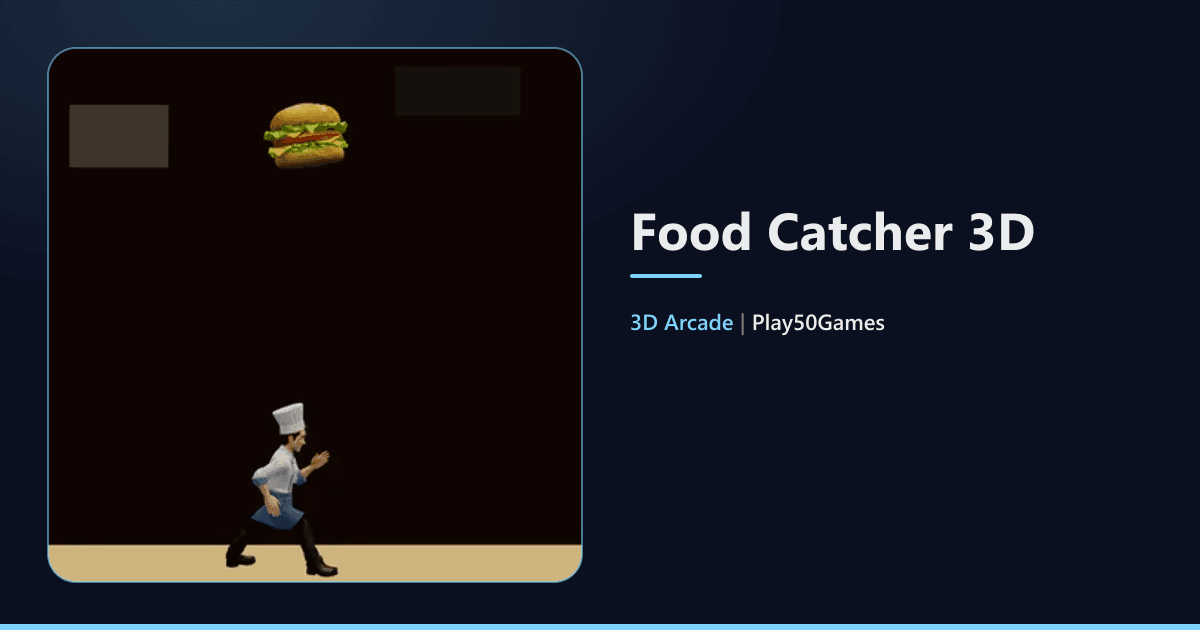
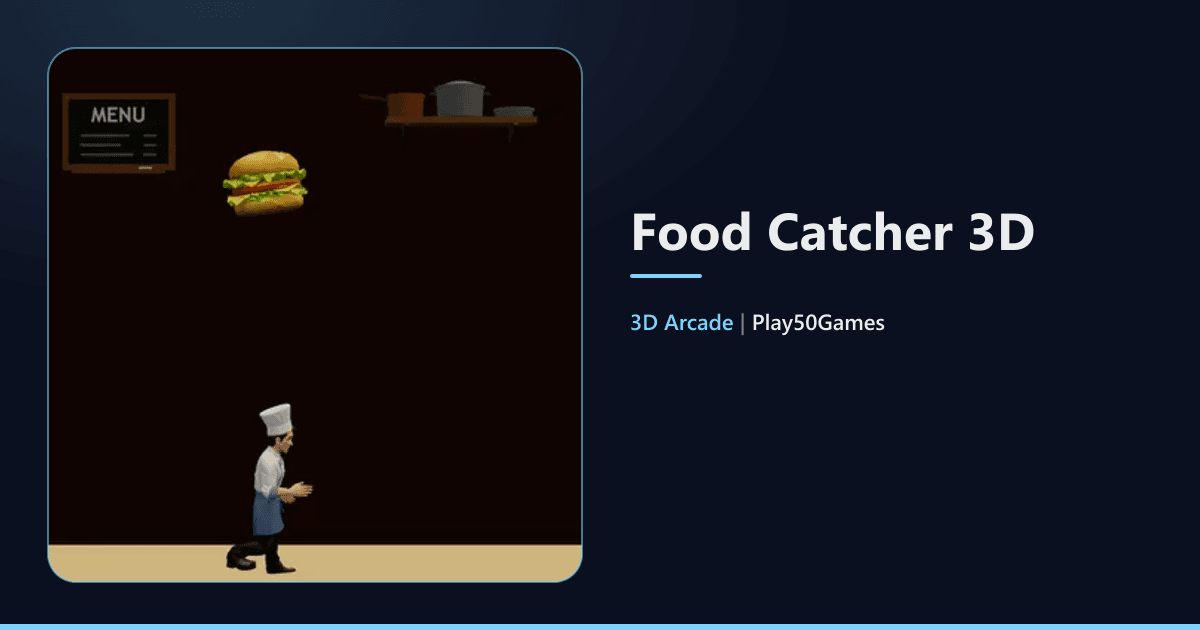
feat(food-catcher): menu board and pot shelf on the kitchen wall
The two plain grey boxes on the back wall read as holes. A chalk menu
board (slate drawn with core useCanvasTexture: MENU and three faint dish
lines, wooden frame and chalk ledge) and a wooden shelf on iron brackets
with a copper saucepan, a steel stock pot and a pan replace them. Muted
and darker than the food, no red, so the food and the junk ring read
first. Wood and metal are each one merged vertex-coloured geometry:
3 draw calls for the decor, 1 more than the boxes (scene 8 -> 9 at rest).
Thumbnail and OG card recaptured with the new wall.

Changed region(s): [[0.185, 0.1206, 0.4625, 0.3619], [0.185, 0.6333, 0.2775, 0.9349], [0.0308, 0.1508, 0.1542, 0.3016]]

diff --git a/play50games-frontend/src/arcade3d/games/food-catcher/Primitives.tsx b/play50games-frontend/src/arcade3d/games/food-catcher/Primitives.tsx
@@ -2,7 +2,20 @@
 
 // Kitchen, chef and food stand-ins. Drawn until the GLBs are in core/modelManifest.ts.
 // The chef stands on y = 0 and is about 1.6 tall. Food is centred on the group origin, ~0.9 across.
-import { memo } from "react";
+import { memo, useEffect, useMemo } from "react";
+import {
+   BoxGeometry,
+   Color,
+   CylinderGeometry,
+   Euler,
+   Float32BufferAttribute,
+   Matrix4,
+   Quaternion,
+   Vector3,
+   type BufferGeometry,
+} from "three";
+import { mergeGeometries } from "three/examples/jsm/utils/BufferGeometryUtils.js";
+import { useCanvasTexture, type CanvasDraw } from "@/arcade3d/core/render";
 
 export const COLORS = {
    hat: "#f8fafc",
@@ -25,14 +38,210 @@ export const COLORS = {
    counterEdge: "#a16207",
    cabinet: "#6b4a2b",
    wall: "#3b2418",
-   tile: "#78716c",
    floor: "#1c1410",
 } as const;
 
 /**
+ * The wall decor's colours. Muted and darker than anything that falls (the wall is lit dimly, so
+ * these render at about half their value): no red, no bright yellow or white, no round fruit-like
+ * blobs, so the food and the red junk tell always read first.
+ */
+const DECOR = {
+   slate: "#27302b",
+   chalk: "rgba(222, 216, 206, 0.92)",
+   chalkFaint: "rgba(222, 216, 206, 0.42)",
+   frame: "#7a5636",
+   plank: "#86613f",
+   stick: "#b9b2a6",
+   iron: "#57524d",
+   copper: "#a8693f",
+   copperDark: "#7c4a2c",
+   steel: "#8d9297",
+   steelDark: "#5c6166",
+   knob: "#36312d",
+} as const;
+
+/** The wall's front face (the wall box is centred on z = -0.85, 0.18 deep). */
+const WALL_FRONT = -0.76;
+/** The chalkboard's slate (the frame is 0.07 wider on every side), where the old grey box hung. */
+const BOARD = { x: -2.2, y: 4.65, w: 1.12, h: 0.72, border: 0.07 } as const;
+/** The pot shelf: the plank's top centre, its width and depth, where the old dark box hung. */
+const SHELF = { x: 1.6, top: 4.78, w: 1.64, depth: 0.36, thick: 0.07 } as const;
+const MENU_TEX = { w: 448, h: 288 } as const;
+
+/** The chalkboard: "MENU" and three faint dish lines with a price dash, on dark slate. */
+const drawMenuBoard: CanvasDraw = (ctx, w, h) => {
+   ctx.fillStyle = DECOR.slate;
+   ctx.fillRect(0, 0, w, h);
+   // old chalk wiped off: a few faint smears, fixed so every run draws the same board
+   ctx.fillStyle = "rgba(222, 216, 206, 0.05)";
+   for (const [x, y, rx, ry] of [[0.3, 0.62, 0.22, 0.1], [0.72, 0.4, 0.18, 0.08], [0.55, 0.85, 0.3, 0.07]]) {
+      ctx.beginPath();
+      ctx.ellipse(x * w, y * h, rx * w, ry * h, -0.12, 0, Math.PI * 2);
+      ctx.fill();
+   }
+   ctx.fillStyle = DECOR.chalk;
+   ctx.textAlign = "center";
+   ctx.textBaseline = "middle";
+   ctx.font = `700 ${Math.round(h * 0.32)}px "Trebuchet MS", "Segoe UI", Arial, sans-serif`;
+   ctx.fillText("MENU", w / 2, h * 0.26);
+   ctx.strokeStyle = DECOR.chalkFaint;
+   ctx.lineCap = "round";
+   ctx.lineWidth = h * 0.035;
+   for (const [y, end] of [[0.56, 0.6], [0.71, 0.52], [0.86, 0.64]]) {
+      ctx.beginPath();
+      ctx.moveTo(w * 0.13, h * y);
+      ctx.lineTo(w * end, h * y);
+      ctx.moveTo(w * 0.76, h * y);
+      ctx.lineTo(w * 0.87, h * y);
+      ctx.stroke();
+   }
+};
+
+type AddPiece = (geometry: BufferGeometry, color: string, x: number, y: number, z: number, rotX?: number, rotZ?: number) => void;
+
+/** Vertex-coloured pieces merged into one geometry, so they cost one draw call together. */
+function mergedPieces(build: (add: AddPiece) => void): BufferGeometry {
+   const pieces: BufferGeometry[] = [];
+   const matrix = new Matrix4();
+   const turn = new Quaternion();
+   const euler = new Euler();
+   const at = new Vector3();
+   const one = new Vector3(1, 1, 1);
+   const tint = new Color();
+   build((geometry, color, x, y, z, rotX = 0, rotZ = 0) => {
+      geometry.applyMatrix4(matrix.compose(at.set(x, y, z), turn.setFromEuler(euler.set(rotX, 0, rotZ)), one));
+      tint.set(color);
+      const colors = new Float32Array(geometry.getAttribute("position").count * 3);
+      for (let i = 0; i < colors.length; i += 3) {
+         colors[i] = tint.r;
+         colors[i + 1] = tint.g;
+         colors[i + 2] = tint.b;
+      }
+      geometry.setAttribute("color", new Float32BufferAttribute(colors, 3));
+      pieces.push(geometry);
+   });
+   const merged = mergeGeometries(pieces);
+   for (const piece of pieces) piece.dispose();
+   if (!merged) throw new Error("food-catcher kitchen decor: pieces did not merge");
+   return merged;
+}
+
+/** A pot on the shelf: a body, a rolled rim, and its handles or lid, standing on the plank. */
+function addPot(
+   add: AddPiece,
+   x: number,
+   radius: number,
+   height: number,
+   color: string,
+   trim: string,
+   kind: "saucepan" | "stockpot" | "pan"
+): void {
+   const z = WALL_FRONT + SHELF.depth / 2;
+   const base = SHELF.top;
+   add(new CylinderGeometry(radius, radius * 0.94, height, 22), color, x, base + height / 2, z);
+   add(new CylinderGeometry(radius * 1.07, radius * 1.07, 0.028, 22), color, x, base + height - 0.014, z);
+   if (kind === "stockpot") {
+      // a low lid with a dark knob, and an ear handle on each side
+      add(new CylinderGeometry(radius * 0.4, radius * 1.02, 0.06, 22), color, x, base + height + 0.03, z);
+      add(new CylinderGeometry(0.03, 0.04, 0.045, 10), DECOR.knob, x, base + height + 0.08, z);
+      add(new BoxGeometry(0.08, 0.035, 0.05), trim, x - radius - 0.035, base + height * 0.8, z);
+      add(new BoxGeometry(0.08, 0.035, 0.05), trim, x + radius + 0.035, base + height * 0.8, z);
+      return;
+   }
+   // one long handle under the rim, its far end tilted up, pointing away from the shelf's middle
+   const side = kind === "saucepan" ? -1 : 1;
+   const length = radius * 1.7;
+   add(
+      new BoxGeometry(length, 0.035, 0.045),
+      trim,
+      x + side * (radius + length / 2 - 0.02),
+      base + height - 0.025,
+      z,
+      0,
+      side * 0.18
+   );
+}
+
+/** The wooden parts: the chalkboard frame, its chalk ledge with a stick of chalk, the shelf plank. */
+function buildWood(): BufferGeometry {
+   return mergedPieces((add) => {
+      const frameW = BOARD.w + BOARD.border * 2;
+      const frameH = BOARD.h + BOARD.border * 2;
+      add(new BoxGeometry(frameW, frameH, 0.05), DECOR.frame, BOARD.x, BOARD.y, WALL_FRONT + 0.025);
+      const ledgeY = BOARD.y - frameH / 2 - 0.02;
+      add(new BoxGeometry(frameW * 0.82, 0.04, 0.1), DECOR.frame, BOARD.x, ledgeY, WALL_FRONT + 0.05);
+      add(new CylinderGeometry(0.018, 0.018, 0.14, 8), DECOR.stick, BOARD.x + 0.3, ledgeY + 0.038, WALL_FRONT + 0.06, 0, Math.PI / 2);
+      add(
+         new BoxGeometry(SHELF.w, SHELF.thick, SHELF.depth),
+         DECOR.plank,
+         SHELF.x,
+         SHELF.top - SHELF.thick / 2,
+         WALL_FRONT + SHELF.depth / 2
+      );
+   });
+}
+
+/** The metal parts: the shelf's two iron brackets, a copper saucepan, a steel stock pot, a pan. */
+function buildMetal(): BufferGeometry {
+   return mergedPieces((add) => {
+      const under = SHELF.top - SHELF.thick;
+      // each bracket: an upright on the wall and a brace out to the plank's front edge
+      const drop = 0.24;
+      const reach = SHELF.depth - 0.06;
+      const brace = Math.hypot(drop, reach);
+      for (const dx of [-0.6, 0.6]) {
+         add(new BoxGeometry(0.045, drop, 0.04), DECOR.iron, SHELF.x + dx, under - drop / 2, WALL_FRONT + 0.02);
+         add(
+            new BoxGeometry(0.045, brace, 0.035),
+            DECOR.iron,
+            SHELF.x + dx,
+            under - drop / 2,
+            WALL_FRONT + reach / 2,
+            Math.atan2(reach, drop)
+         );
+      }
+      addPot(add, SHELF.x - 0.6, 0.2, 0.25, DECOR.copper, DECOR.copperDark, "saucepan");
+      addPot(add, SHELF.x, 0.26, 0.34, DECOR.steel, DECOR.steelDark, "stockpot");
+      addPot(add, SHELF.x + 0.6, 0.21, 0.1, DECOR.steel, DECOR.knob, "pan");
+   });
+}
+
+/**
+ * The menu board and the pot shelf on the wall behind the falling food: three draw calls
+ * (the slate, the wood, the metal), built once per mount and freed with it.
+ */
+const WallDecor = memo(function WallDecor() {
+   const menu = useCanvasTexture(MENU_TEX.w, MENU_TEX.h, drawMenuBoard);
+   const parts = useMemo(() => ({ wood: buildWood(), metal: buildMetal() }), []);
+   useEffect(
+      () => () => {
+         parts.wood.dispose();
+         parts.metal.dispose();
+      },
+      [parts]
+   );
+   return (
+      <group name="wall-decor">
+         <mesh position={[BOARD.x, BOARD.y, WALL_FRONT + 0.056]} name="menu-board">
+            <planeGeometry args={[BOARD.w, BOARD.h]} />
+            <meshStandardMaterial map={menu} roughness={0.95} />
+         </mesh>
+         <mesh geometry={parts.wood} name="decor-wood">
+            <meshStandardMaterial vertexColors roughness={0.8} />
+         </mesh>
+         <mesh geometry={parts.metal} name="decor-metal">
+            <meshStandardMaterial vertexColors roughness={0.42} metalness={0.3} />
+         </mesh>
+      </group>
+   );
+});
+
+/**
  * The back wall reaches far above and below the play rectangle (y [-9, 16], 24 wide) and a
  * cabinet hangs under the counter, so the extra height a portrait phone shows (y -6.2 to 12.7 at 375×812)
- * and the extra width of an ultra-wide screen are kitchen, not empty background.
+ * and the extra width of an ultra-wide screen are kitchen, not empty background. A chalk menu board
+ * and a shelf of pots hang on the wall behind the play area (WallDecor).
  */
 export const Kitchen = memo(function Kitchen() {
    return (
@@ -45,14 +254,7 @@ export const Kitchen = memo(function Kitchen() {
             <boxGeometry args={[9.2, 8.5, 1.5]} />
             <meshStandardMaterial color={COLORS.cabinet} />
          </mesh>
-         <mesh position={[-2.2, 4.6, -0.74]}>
-            <boxGeometry args={[1.1, 0.7, 0.06]} />
-            <meshStandardMaterial color={COLORS.tile} />
-         </mesh>
-         <mesh position={[1.6, 5.1, -0.74]}>
-            <boxGeometry args={[1.4, 0.55, 0.06]} />
-            <meshStandardMaterial color="#44403c" />
-         </mesh>
+         <WallDecor />
          <mesh position={[0, -0.28, 0.15]}>
             <boxGeometry args={[9.4, 0.56, 1.7]} />
             <meshStandardMaterial color={COLORS.counter} />

diff --git a/play50games-frontend/src/arcade3d/games/food-catcher/README.md b/play50games-frontend/src/arcade3d/games/food-catcher/README.md
@@ -166,7 +166,7 @@ const VIEW = {
 
 The fit finds the closest camera distance that keeps the rectangle inside the canvas and out from under the safe area (`useSafeArea`: the shell HUD, the 2× badge, the cookie banner; there are no touch controls). It reruns only when the canvas size or the safe area changes (resize, rotation, the banner), never because of play. The 2× badge is always laid out and only made invisible under a 5 combo, so reaching or losing the combo does not change the safe area and the camera z stays where it is.
 
-The counter, the kitchen wall and the cabinet under the counter are code primitives. The wall spans y [-9, 16] and 24 units across, so the extra height of a portrait phone (y -6.2 to 12.7 at 375×812) and the extra width of an ultra-wide screen show kitchen, not empty background. Items fall straight down. Bad items (sock and tin can) carry the junk tell, drawn in code: a dark red disc (`#9f1239`) behind the item and a bright red rim (`#f43f5e`) around it, both flat in the XY plane so they face the pitch-0 camera (two unlit draw calls per junk item). The tell is not part of the GLB.
+The counter, the kitchen wall and the cabinet under the counter are code primitives. The wall spans y [-9, 16] and 24 units across, so the extra height of a portrait phone (y -6.2 to 12.7 at 375×812) and the extra width of an ultra-wide screen show kitchen, not empty background. Two code-drawn pieces hang on the wall behind the play area (`WallDecor` in `Primitives.tsx`): on the left a chalk menu board (slate drawn once with core `useCanvasTexture`: "MENU" and three faint dish lines, no font download; a wooden frame with a chalk ledge), on the right a wooden shelf on two iron brackets with a copper saucepan, a steel stock pot with a lid and a low steel pan. They replace two plain grey boxes that players read as holes. They stay muted and darker than anything that falls (no red, no bright yellow or white, no round fruit-like blobs), so the food and the red junk tell always read first. The wood and the metal are each one merged, vertex-coloured geometry, so the decor costs three draw calls (slate, wood, metal), one more than the two boxes. Items fall straight down. Bad items (sock and tin can) carry the junk tell, drawn in code: a dark red disc (`#9f1239`) behind the item and a bright red rim (`#f43f5e`) around it, both flat in the XY plane so they face the pitch-0 camera (two unlit draw calls per junk item). The tell is not part of the GLB.
 
 ## Assets
 
